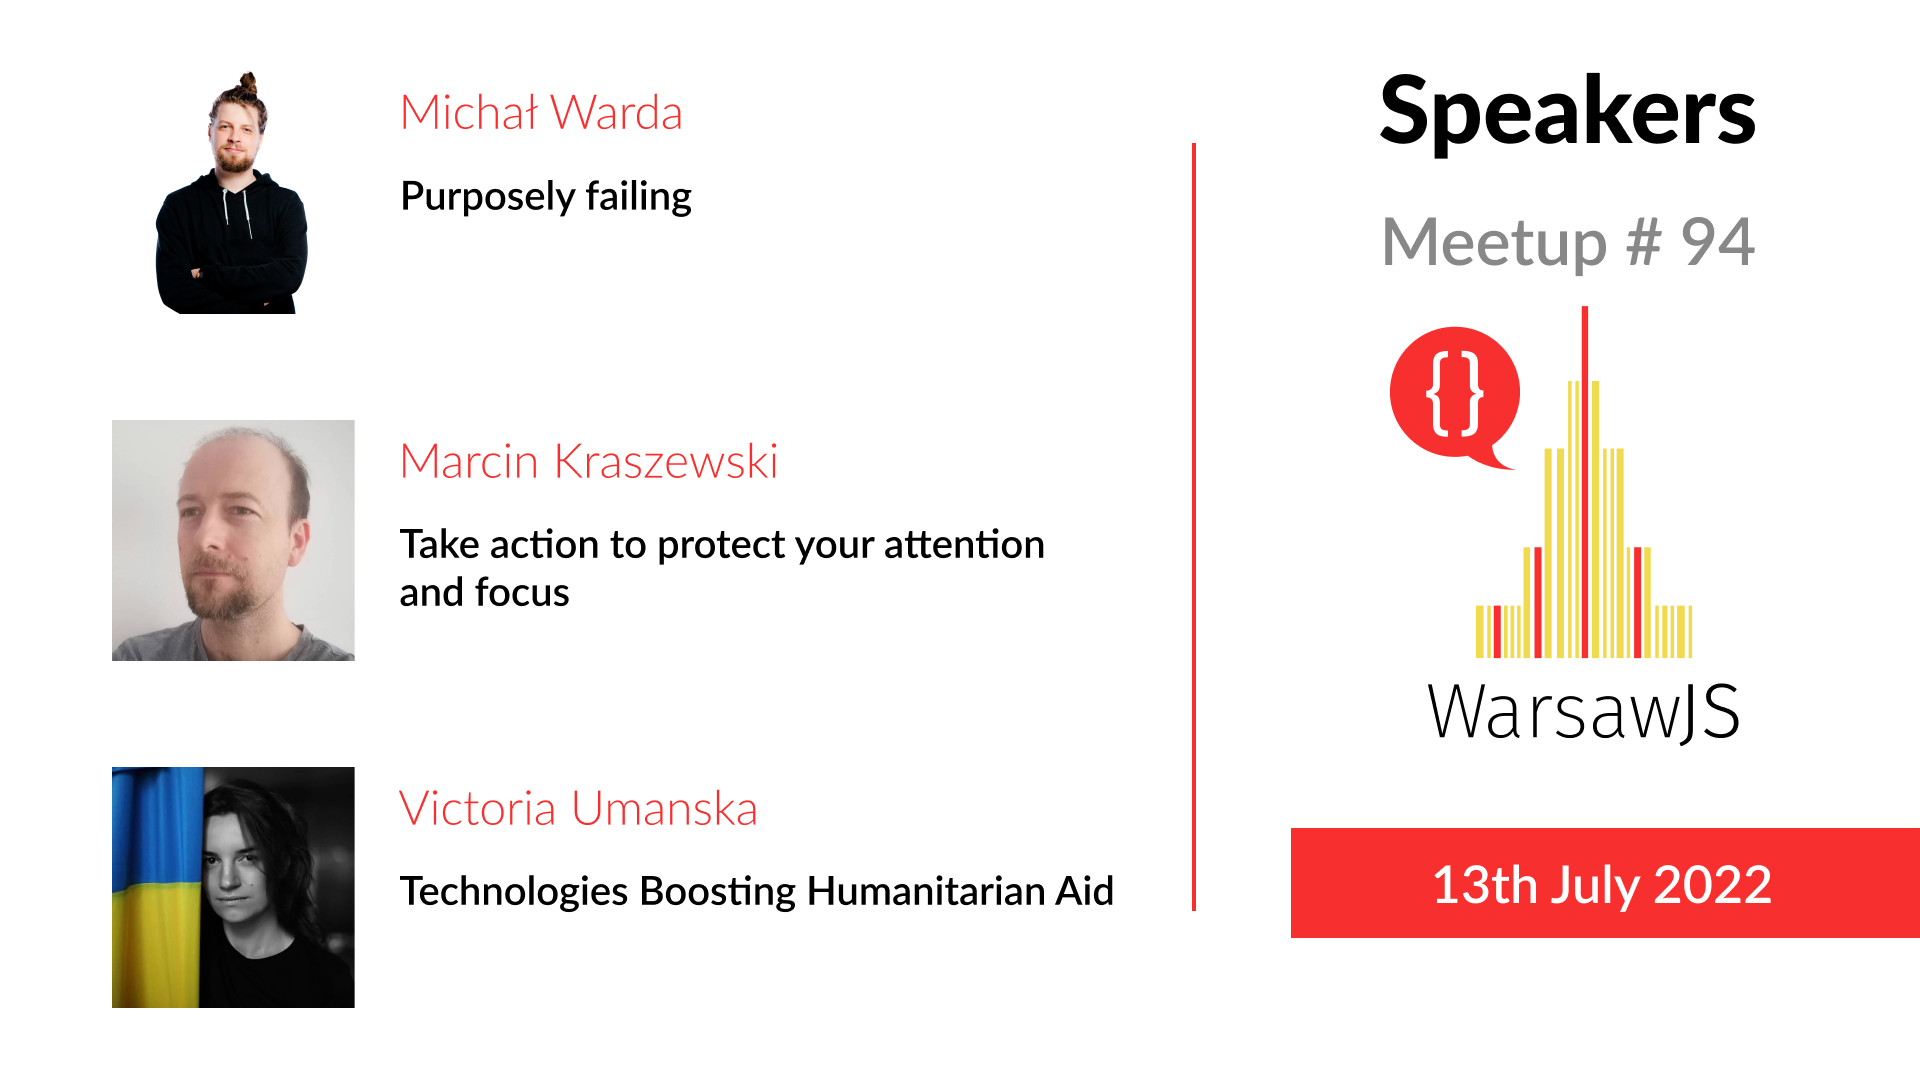
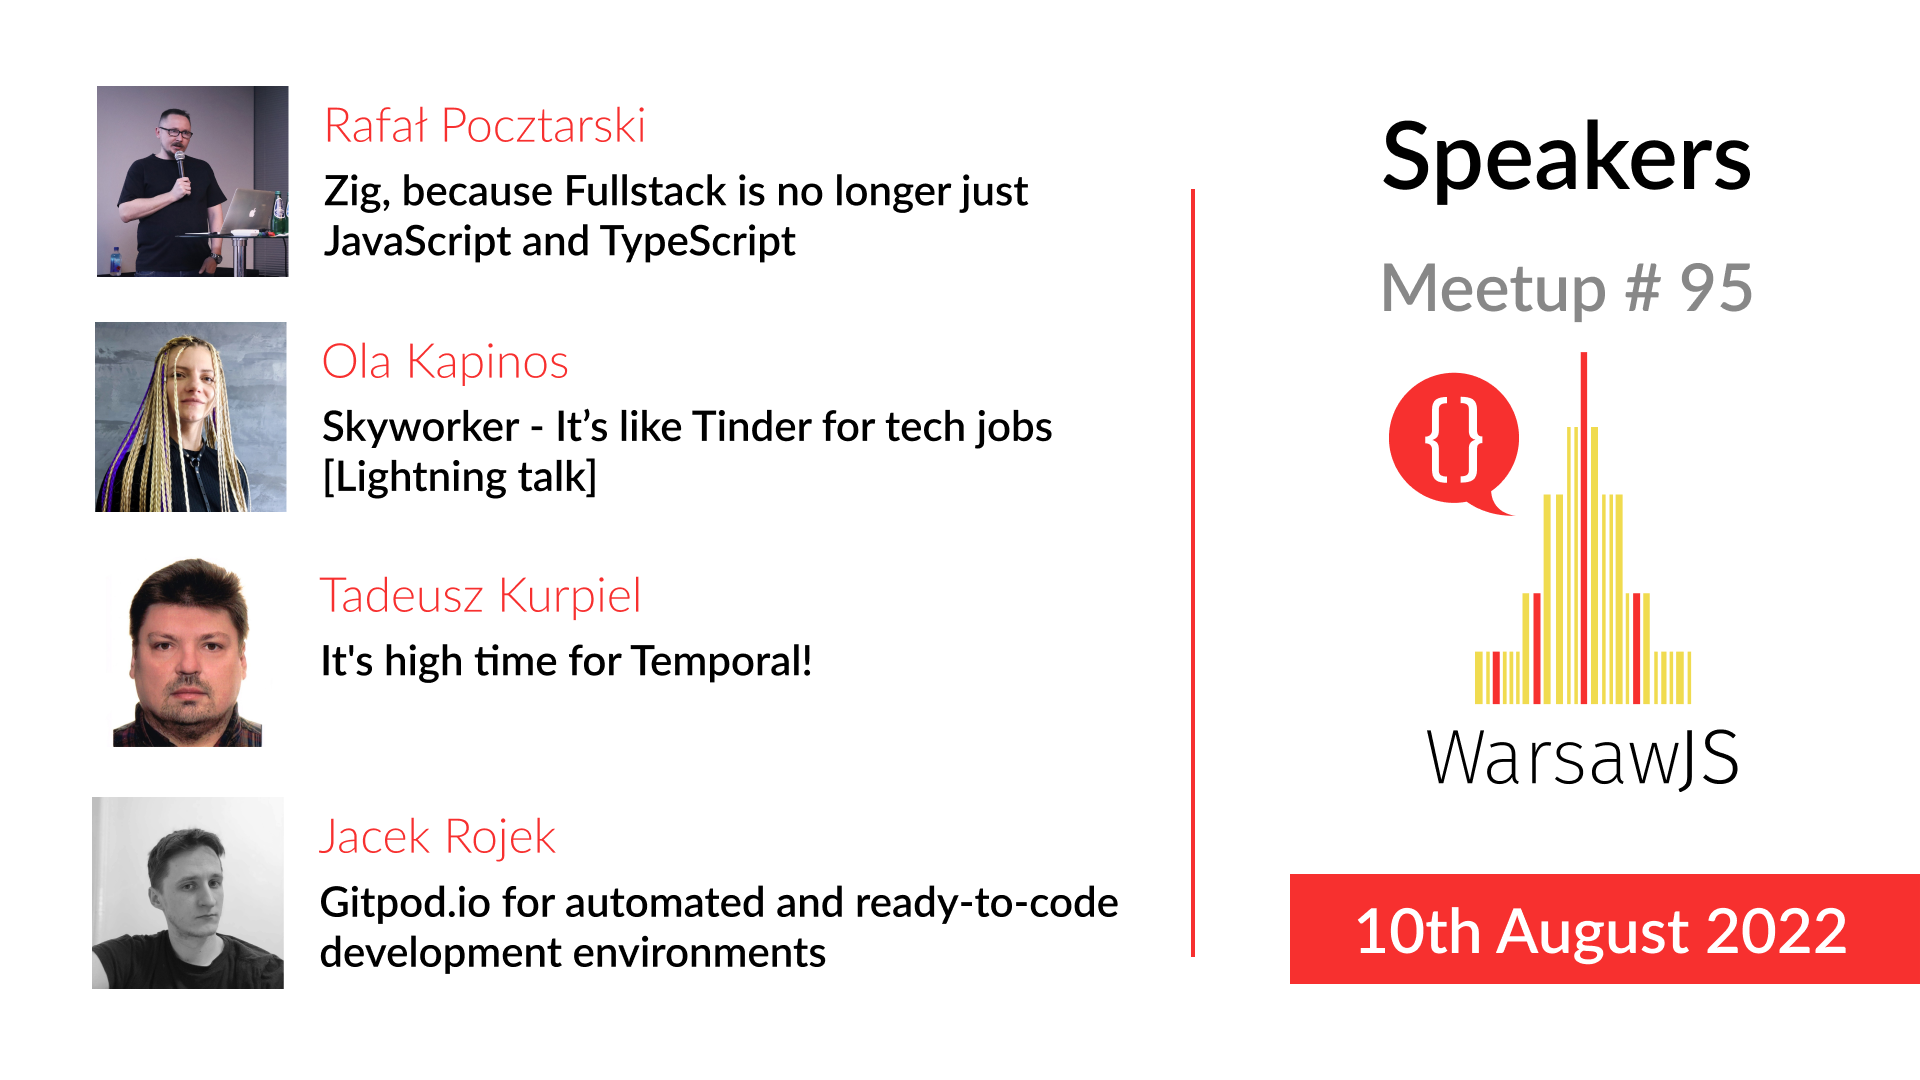
Update slides for meetup 95

Changed region(s): [[0.0312, 0.0611, 0.5938, 0.9472], [0.7188, 0.0611, 0.9375, 0.7333], [0.6562, 0.7639, 1.0, 0.9167]]

diff --git a/index.html b/index.html
@@ -76,25 +76,25 @@
 
         <section class="slide center slide-card-list" style="padding-top: 40px;">
         <h2 style="font-size: 60px; margin-bottom: 20px;">
-            WarsawJS <em>Lady of Ceremonies</em>
+            WarsawJS <em>Master of Ceremonies</em>
         </h2>
 
         <ul class="list-unstyled items">
             <li>
                 <img
-                    src="https://s3.eu-central-1.amazonaws.com/www.warsawjs.com/static/images/people/wenyao.jpg"
+                    src="https://s3.eu-central-1.amazonaws.com/www.warsawjs.com/static/images/people/barry-solone.jpg"
                     class="avatar"
                     style="border-radius: 50%; width: 170px; margin-bottom: 25px;"
                     alt=""/>
 
                 <p>
-                    Wenyao Lin
+                    Barry Solone
                 </p>
 
                 <p>
-                    <a href="https://github.com/warsawjs">
+                    <a href="https://github.com/BeSoSolone">
                         <i class="icon icon-twitter"></i>
-                        <span>Wenyao</span>
+                        <span>Barry Solone</span>
                     </a>
                 </p>
             </li>
@@ -169,23 +169,6 @@
         </h2>
 
         <ul class="list-unstyled items">
-
-            <li>
-                <img
-                    src="https://s3.eu-central-1.amazonaws.com/www.warsawjs.com/static/images/people/pawel-rechnio.jpg"
-                    class="avatar"
-                    style="border-radius: 50%; width: 170px; margin-bottom: 25px;"
-                    alt=""/>
-
-                <p>
-                    Paweł Rechnio
-                </p>
-                <p>
-                    <a href="http://www.mediamotion.pl/">
-                        <span>Media Motion</span>
-                    </a>
-                </p>
-            </li>
             <li>
                 <img
                     src="https://s3.eu-central-1.amazonaws.com/www.warsawjs.com/static/images/people/luiza-buta.jpg
@@ -214,6 +197,25 @@
         </h2>
 
         <ul class="list-unstyled items">
+            <li>
+                <img
+                    src="https://s3.eu-central-1.amazonaws.com/www.warsawjs.com/static/images/people/wenyao.jpg"
+                    class="avatar"
+                    style="border-radius: 50%; width: 170px; margin-bottom: 25px;"
+                    alt=""/>
+
+                <p>
+                    Wenyao Lin
+                </p>
+
+                <p>
+                    <a href="https://github.com/warsawjs">
+                        <i class="icon icon-twitter"></i>
+                        <span>Wenyao</span>
+                    </a>
+                </p>
+            </li>
+
             <li>
                 <img
                     src="https://s3.eu-central-1.amazonaws.com/www.warsawjs.com/static/images/people/anna-lukianova.jpg"
@@ -270,26 +272,6 @@
                     </a>
                 </p>
             </li>
-
-            <li>
-                <img
-                    src="https://s3.eu-central-1.amazonaws.com/www.warsawjs.com/static/images/people/jacek-rojek.jpg"
-                    class="avatar"
-                    style="border-radius: 50%; width: 170px; margin-bottom: 25px;"
-                    alt=""/>
-
-                <p>
-                    Jacek Rojek
-                </p>
-
-                <p>
-                    <a href="https://github.com/warsawjs">
-                        <i class="icon icon-twitter"></i>
-                        <span>Jacek Rojek</span>
-                    </a>
-                </p>
-            </li>
-
         </ul>
     </section>
 
@@ -328,8 +310,37 @@
         </h3>
     </section>
 
+    <section class="slide center slide-card-list" style="padding-top: 40px;">
+        <h2 style="font-size: 60px; margin-bottom: 20px;">
+            WarsawJS Meetup <em>Agenda</em>
+        </h2>
+
+        <ul class="list-unstyled items" style="margin-top: 150px">
+            <li style="font-size: 32px; margin: 0 20px">
+                <p>
+                    Four talks 🎤
+                </p>
+            </li>
+            <li style="font-size: 32px; margin: 0 20px">
+                <p>
+                    Pizza 🍕
+                </p>
+            </li>
+            <li style="font-size: 32px; margin: 0 20px">
+                <p>
+                    Lightning talks ⚡
+                </p>
+            </li>
+            <li style="font-size: 32px; margin: 0 20px">
+                <p>
+                    Networking 👥
+                </p>
+            </li>
+        </ul>
+    </section>
+
     <section class="slide">
-        <h1 class="shout">5,987 🙌</h1>
+        <h1 class="shout">6,020 🙌</h1>
 
         <h3 class="shout" style="font-size: 50px; margin-top: 120px;">
             <br/>
@@ -425,8 +436,8 @@
     </section>
 
     <section class="slide">
-        <img class="cover" src="images/misc/Calendar.png"
-             alt="calendar.warsawjs.com"/>
+        <img class="cover" src="images/misc/meetjs.png"
+             alt="Meet.js Summit"/>
     </section>
 
 
@@ -439,12 +450,12 @@
         />
     </section>
 
-    <section class="slide">
+<!--     <section class="slide">
         <h1>Early-bird tickets for 24th March 2023!</h1>
         <h3 class="shout" style="font-size: 50px; margin-top: 120px;">
             <a href="confrontjs.com">ConfrontJS.com</a>
         </h3>
-    </section>
+    </section> -->
 
 <!--     <section class="slide">
         <a href="https://warsawjs.com">
@@ -456,13 +467,13 @@
         </a>   
     </section> -->
 
-    <section class="slide">
+<!--     <section class="slide">
         <h1>Tickets for WarsawJS Meetup #95 are available now!</h1>
         <h3 class="shout" style="font-size: 40px; margin-top: 120px;">
-            <a href="https://www.meetup.com/WarsawJS/">https://app.evenea.pl/event/warsawjs-meetup-95/</a>
+            <a href="https://www.meetup.com/WarsawJS/">https://app.evenea.pl/event/warsawjs-meetup-96/</a>
         </h3>
     </section>
-
+ -->
 
     <!-- End of slides -->
 
